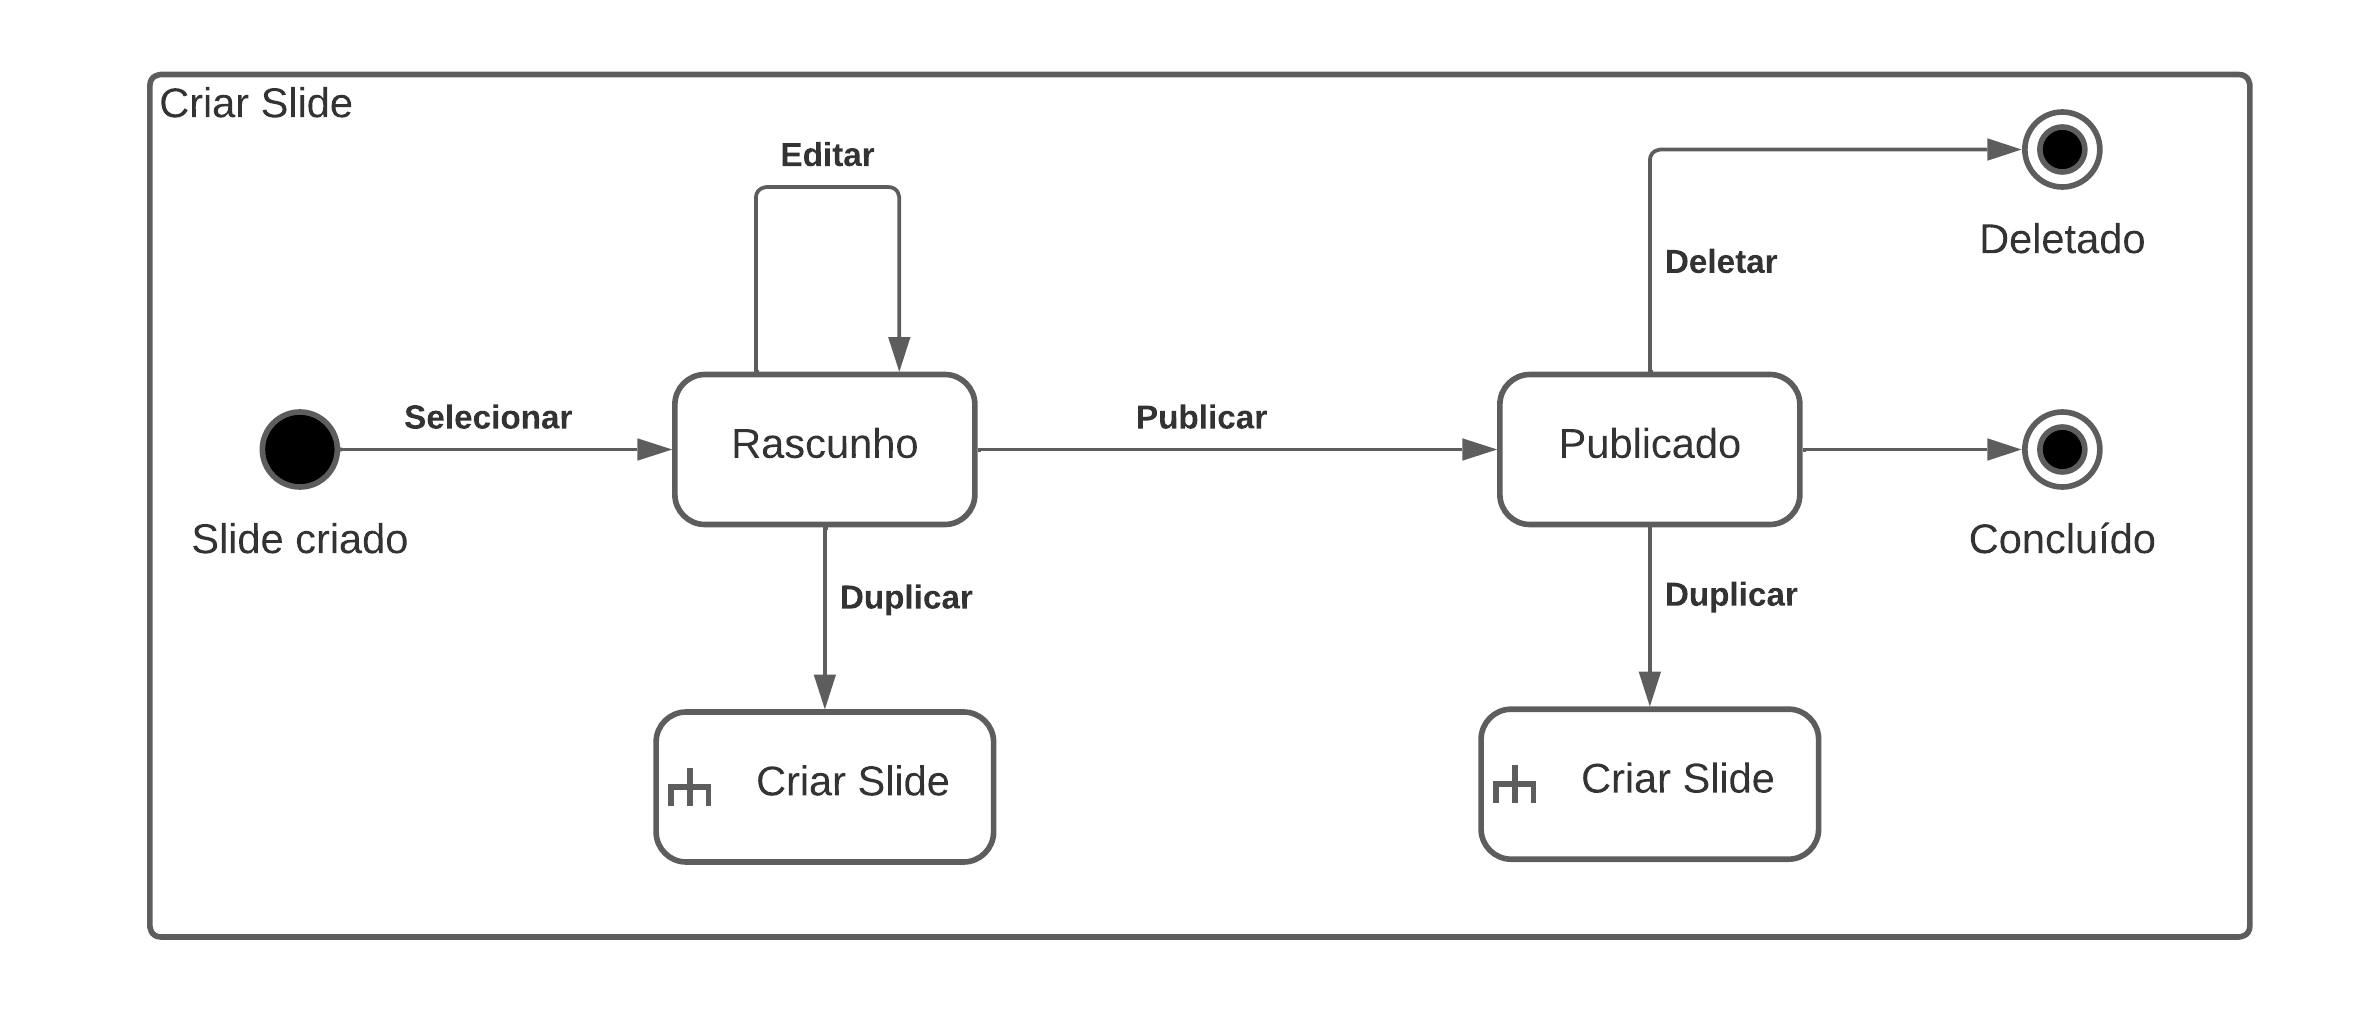
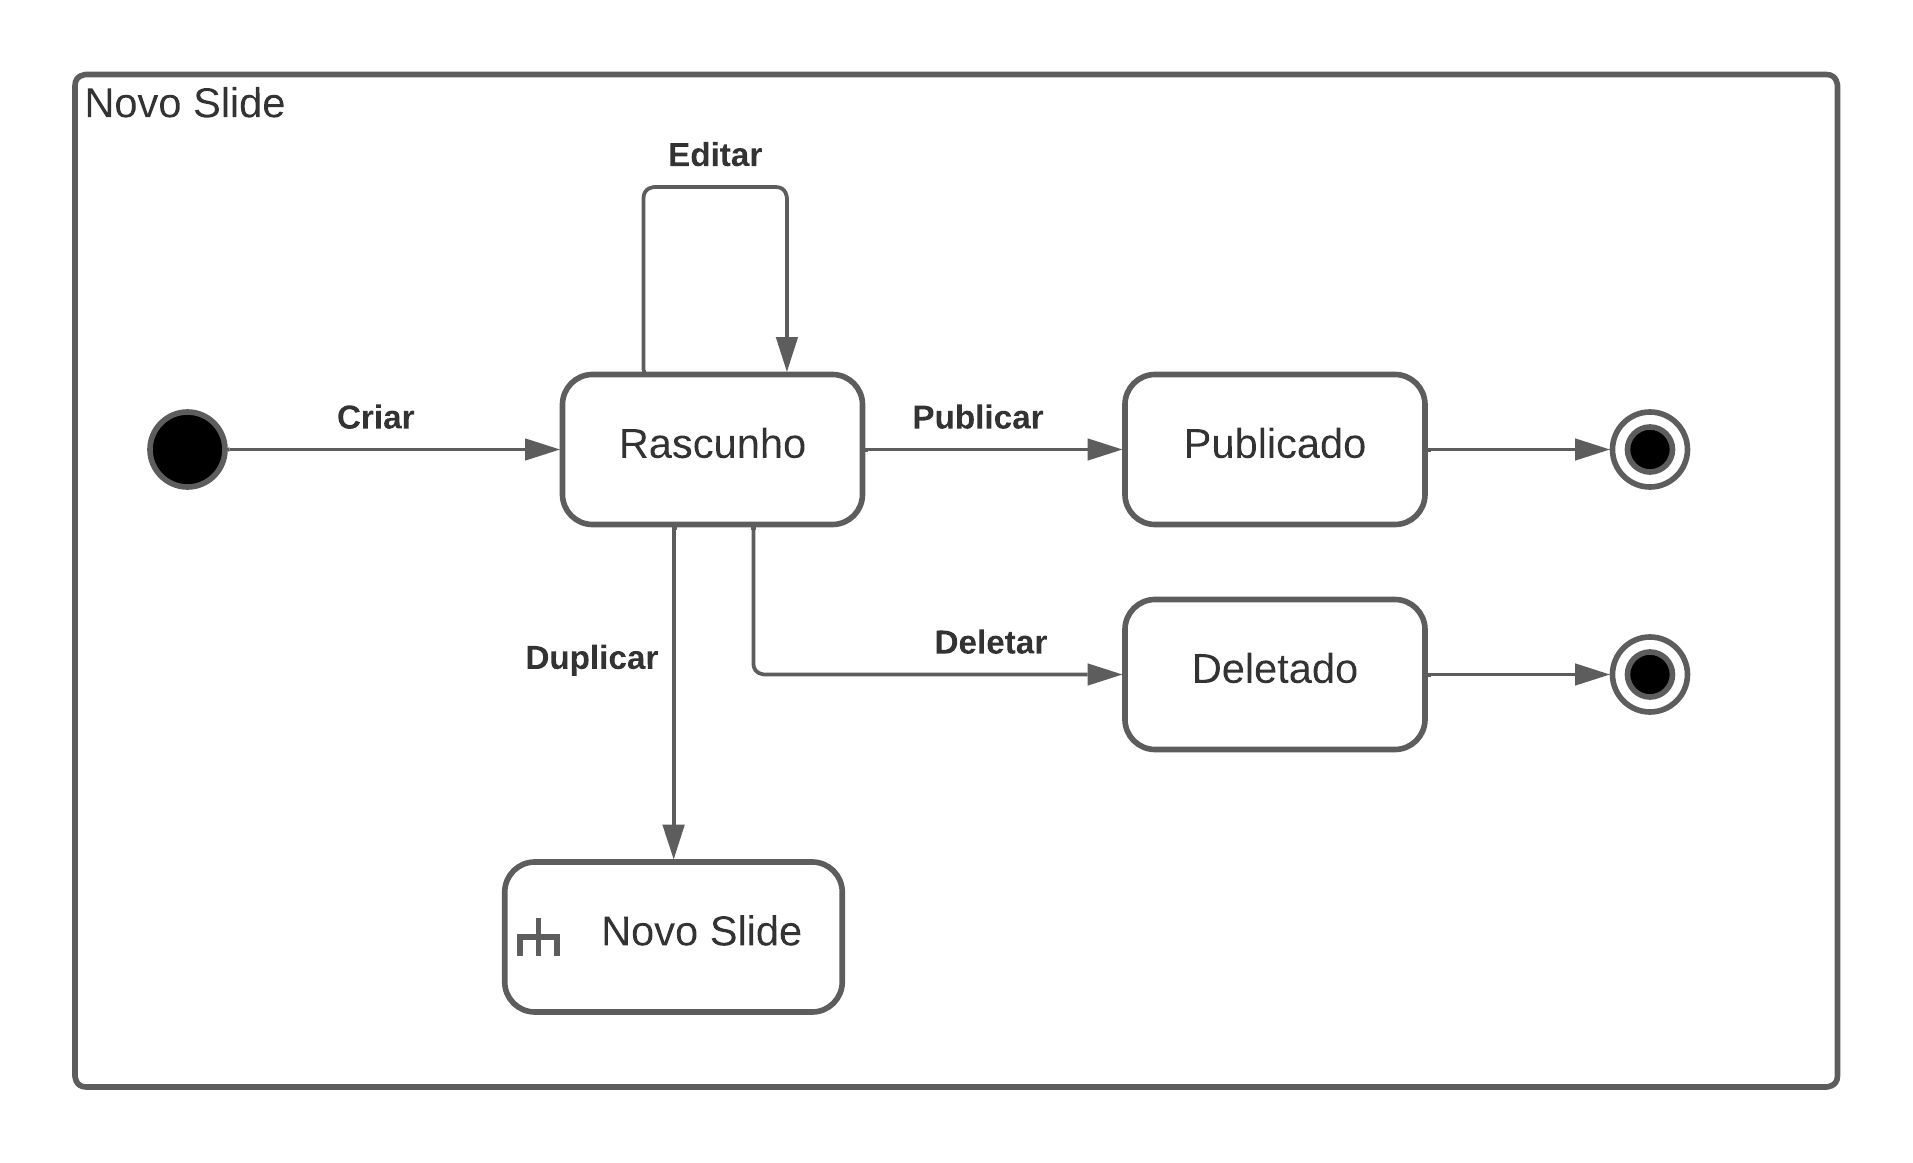
Altera texto da visão da informação

diff --git a/content/posts/deckdeckgo.md b/content/posts/deckdeckgo.md
@@ -75,12 +75,12 @@ O Studio é onde as edições são feitas. Ele usa Stencil, que é uma ferrament
 
 ### Visão de Informação
 
-Os slides são a informação mais fundamental da aplicação. É o foco da plataforma e outras entidades são criadas em volta das apresentações. Por exemplo, a aplicação também lida com votações, mas estas são apenas uma feature criada para complementar os slides. Abaixo segue uma descrição textual e um diagrama explicando sobre os estados desta informação.
+Os slides são a informação mais fundamental da aplicação.
+Após o usuário criar um slide, este é considerado como rascunho, podendo ser editado. Também é possível duplicá-lo ou deletá-lo.
+Ao duplicar um rascunho, um novo rascunho de slide é gerado no mesmo estado em que estava o rascunho original.
 
-Após o slide ser criado, ele pode ser selecionado pelo usuário e aplicação abre uma tela de edição do slide. Dentro do perfil do usuário estão listados os slides criados por ele e estes podem ser editados ou duplicados enquanto ainda não tiverem sido publicados.
+Uma vez que o usuário clique em publicar, o rascunho é publicado e os slides ficam disponíveis através de um link, no estado em que estavam quando o usuário realizou esta ação. Caso o usuário faça mais alterações no rascunho do slide publicado, estas alterações estarão disponíveis apenas no rascunho, a menos que o usuário clique em publicar novamente, gerando uma nova versão do slide publicado.
 
-Uma vez publicados, os slides ficam disponíveis através de um link no estado em que estavam quando o usuário clicou em publicar. Caso o usuário faça mais alterações no slide, elas estarão disponíveis apenas no rascunho, a menos que o usuário clique em publicar novamente e gere uma nova versão do slide publicado, que está disponível no mesmo link.
-
-Uma vez publicado, o slide continua podendo ser duplicados, mas agora também podem ser deletados pelo usuário.
+É importante destacar que, atualmente, um slide publicado não pode ser deletado, mesmo que o rascunho que gerou o slide tenha sido deletado.
 
 ![Visão da Informação](visao_da_informacao.png)
